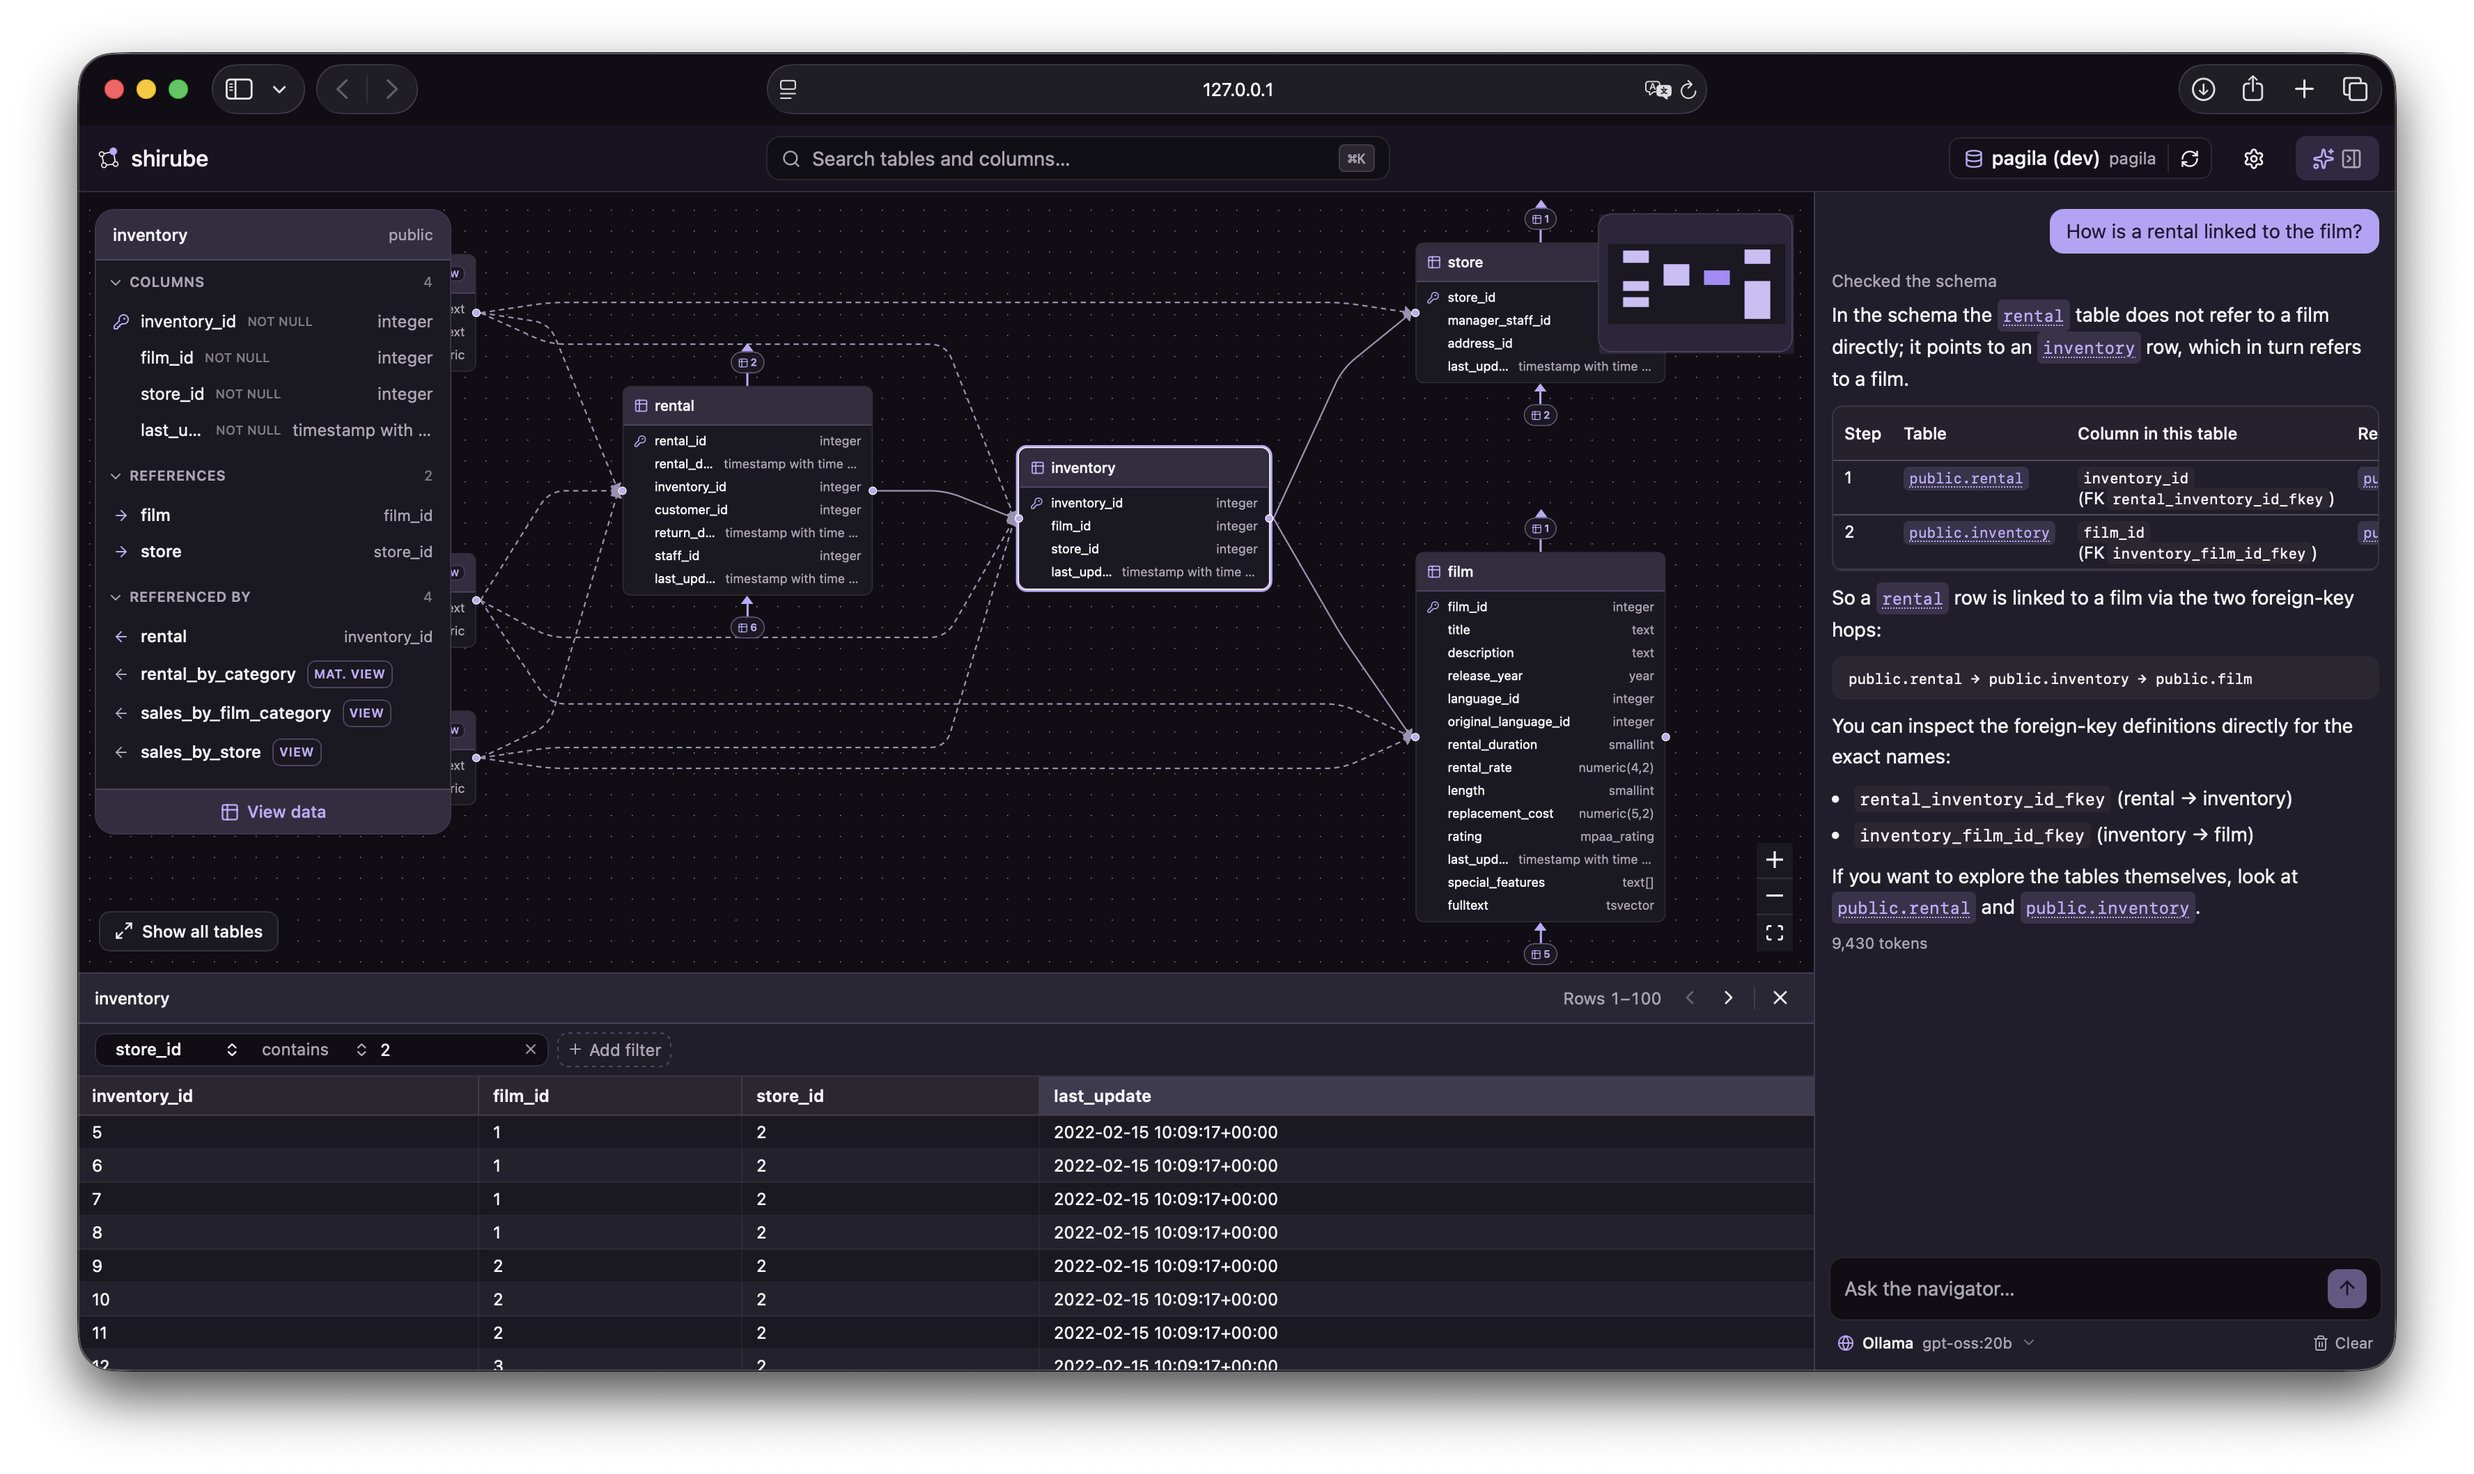
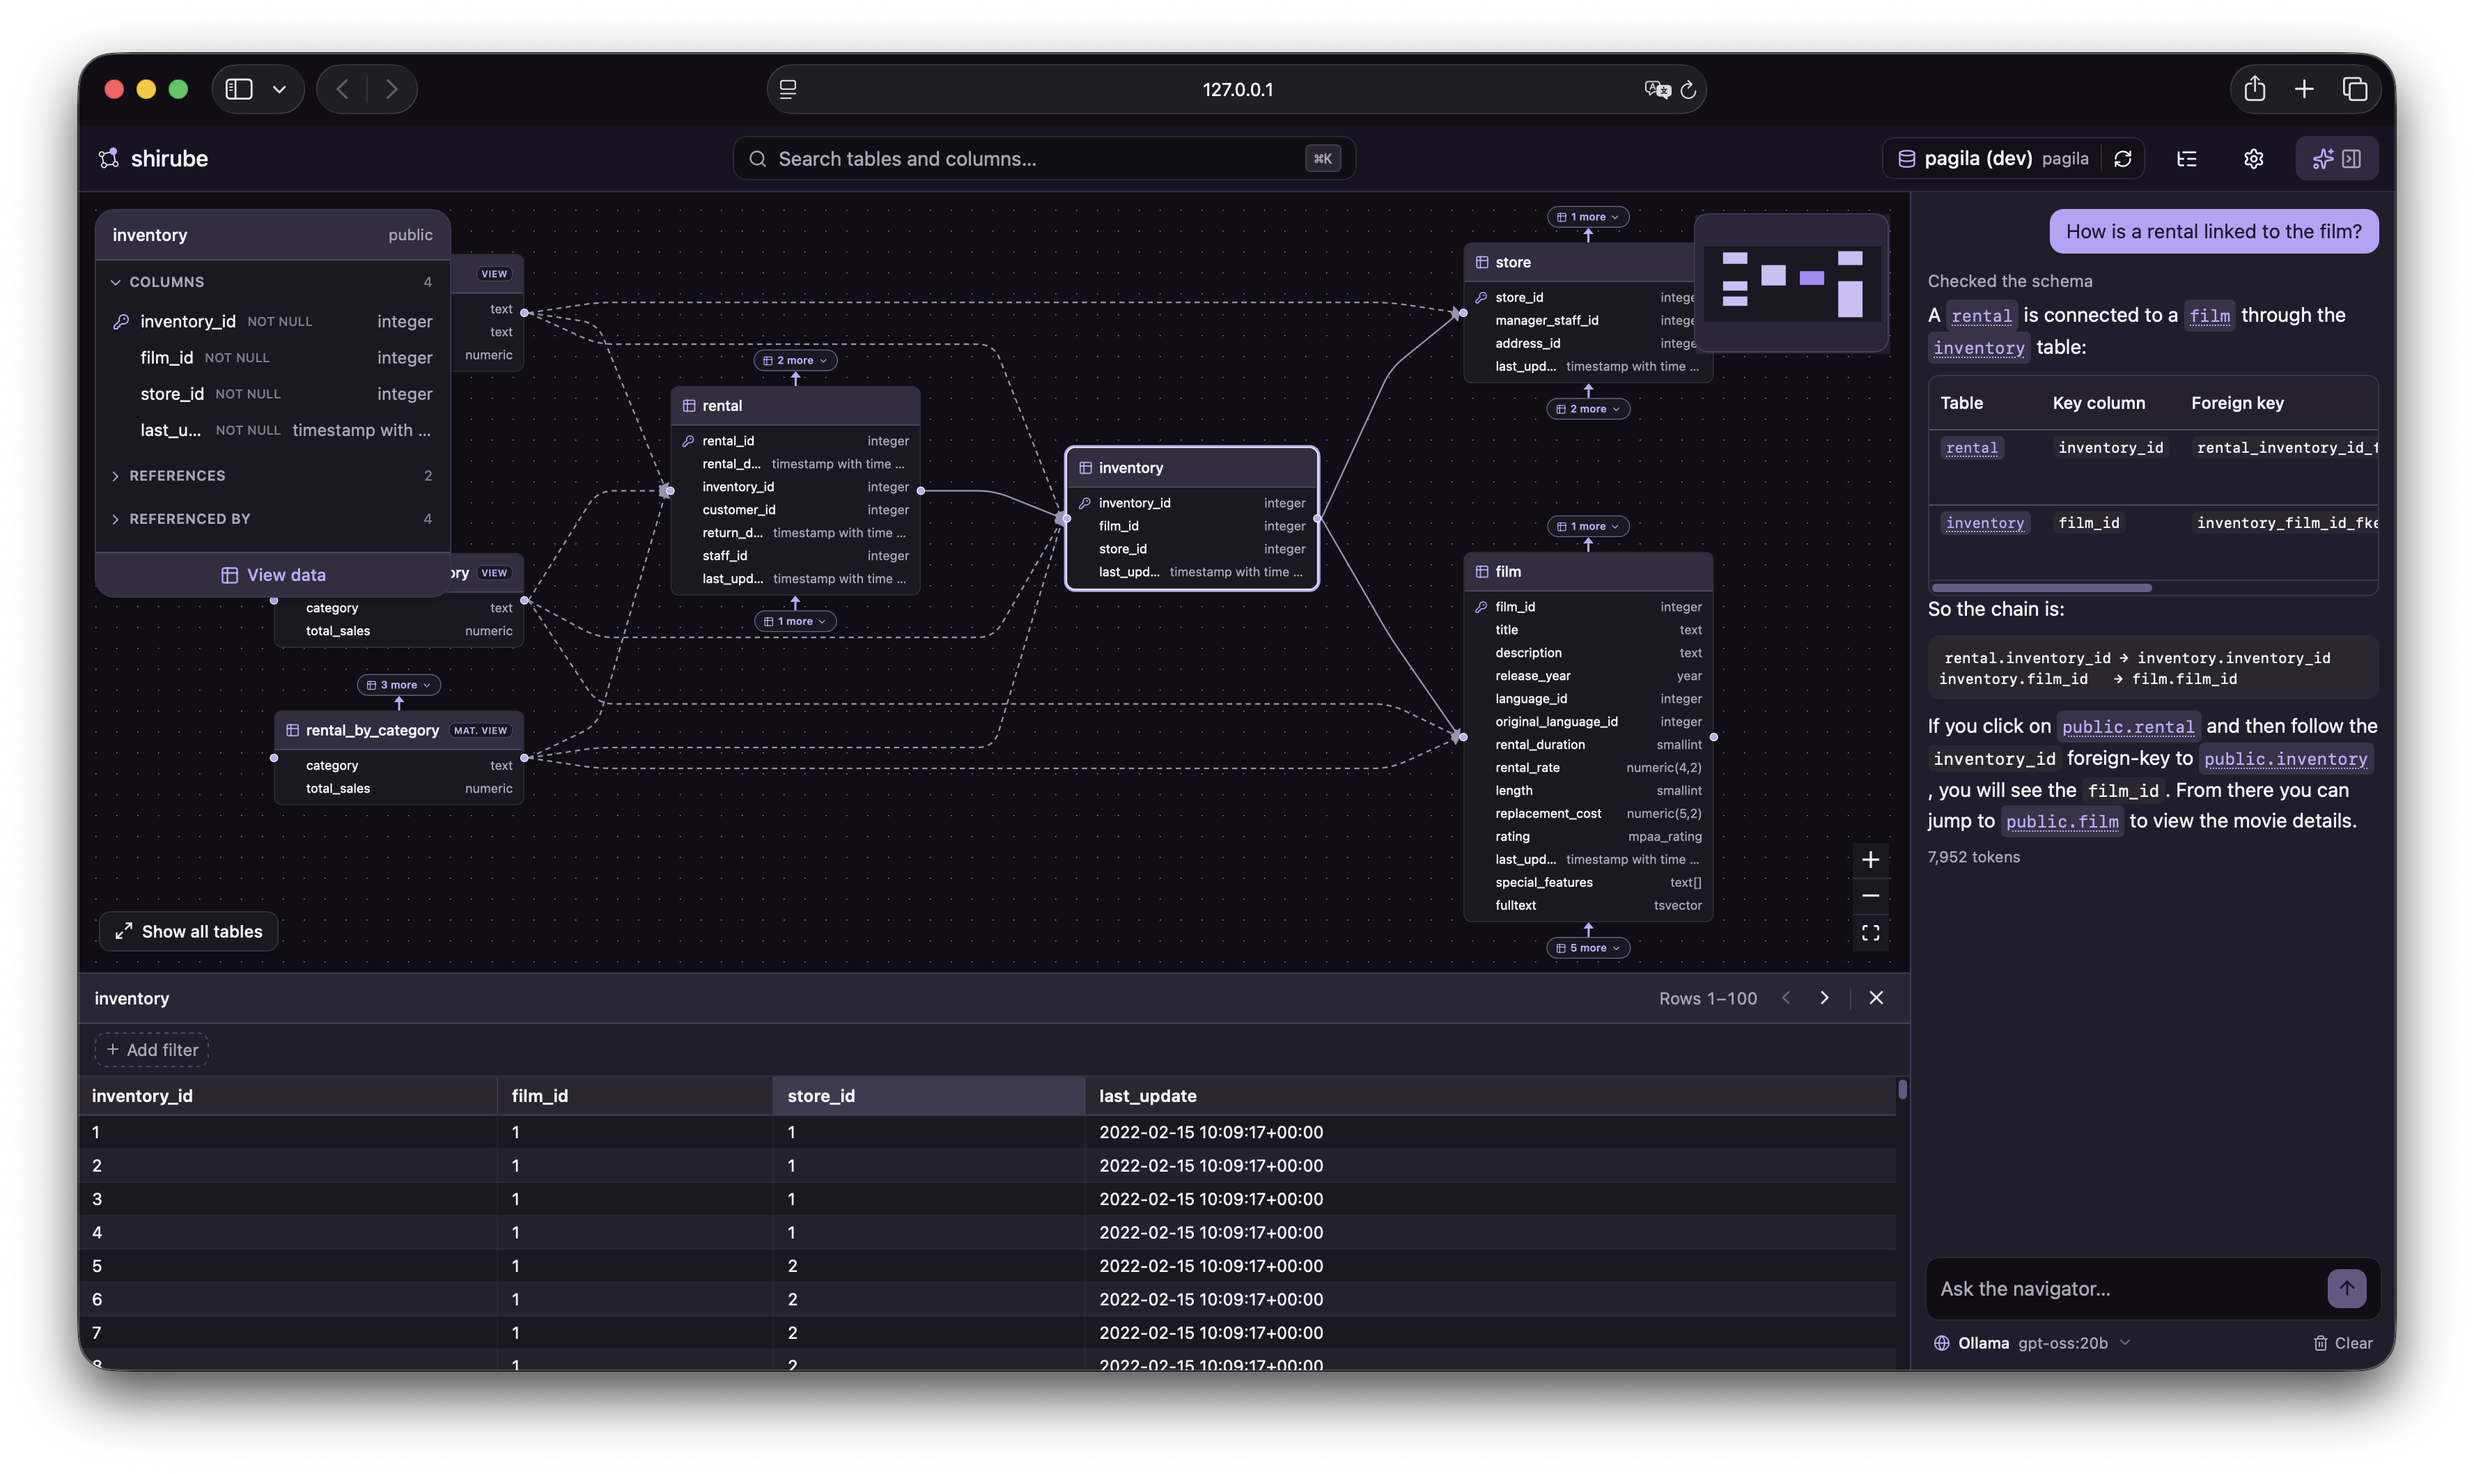
docs: refresh the home screenshot and group the README badges
Replace the home screenshot with the current UI, and lay the badges out in
labelled rows — build/tests (CI, coverage), package/runtime (PyPI, Python
versions), then project (licence, PostgreSQL) — with a line break between
each group so the row reads by intent instead of wrapping at an arbitrary
point. Drop the Ruff badge: it only declared the linter rather than carrying
a live signal, and a green CI already covers that.

diff --git a/api/README.md b/api/README.md
@@ -11,10 +11,9 @@
 
 <p align="center">
   <a href="https://github.com/shou-taro/shirube/actions/workflows/ci.yml"><img src="https://img.shields.io/github/actions/workflow/status/shou-taro/shirube/ci.yml?branch=main&label=CI&logo=githubactions&logoColor=white" alt="CI" /></a>
-  <a href="https://codecov.io/gh/shou-taro/shirube"><img src="https://img.shields.io/codecov/c/github/shou-taro/shirube?label=coverage&logo=codecov&logoColor=white" alt="Coverage" /></a>
+  <a href="https://codecov.io/gh/shou-taro/shirube"><img src="https://img.shields.io/codecov/c/github/shou-taro/shirube?label=coverage&logo=codecov&logoColor=white" alt="Coverage" /></a><br />
   <a href="https://pypi.org/project/shirube/"><img src="https://img.shields.io/pypi/v/shirube?logo=pypi&logoColor=white" alt="PyPI" /></a>
-  <a href="https://pypi.org/project/shirube/"><img src="https://img.shields.io/pypi/pyversions/shirube?logo=python&logoColor=white" alt="Python versions" /></a>
-  <a href="https://github.com/astral-sh/ruff"><img src="https://img.shields.io/endpoint?url=https://raw.githubusercontent.com/astral-sh/ruff/main/assets/badge/v2.json" alt="Ruff" /></a>
+  <a href="https://pypi.org/project/shirube/"><img src="https://img.shields.io/pypi/pyversions/shirube?logo=python&logoColor=white" alt="Python versions" /></a><br />
   <a href="https://github.com/shou-taro/shirube/blob/main/LICENSE"><img src="https://img.shields.io/badge/licence-AGPL--3.0-blue?logo=gnu&logoColor=white" alt="Licence: AGPL-3.0" /></a>
   <img src="https://img.shields.io/badge/PostgreSQL-ready-336791?logo=postgresql&logoColor=white" alt="PostgreSQL" />
 </p>

diff --git a/README.ja.md b/README.ja.md
@@ -11,10 +11,9 @@
 
 <p align="center">
   <a href="https://github.com/shou-taro/shirube/actions/workflows/ci.yml"><img src="https://img.shields.io/github/actions/workflow/status/shou-taro/shirube/ci.yml?branch=main&label=CI&logo=githubactions&logoColor=white" alt="CI" /></a>
-  <a href="https://codecov.io/gh/shou-taro/shirube"><img src="https://img.shields.io/codecov/c/github/shou-taro/shirube?label=coverage&logo=codecov&logoColor=white" alt="Coverage" /></a>
+  <a href="https://codecov.io/gh/shou-taro/shirube"><img src="https://img.shields.io/codecov/c/github/shou-taro/shirube?label=coverage&logo=codecov&logoColor=white" alt="Coverage" /></a><br />
   <a href="https://pypi.org/project/shirube/"><img src="https://img.shields.io/pypi/v/shirube?logo=pypi&logoColor=white" alt="PyPI" /></a>
-  <a href="https://pypi.org/project/shirube/"><img src="https://img.shields.io/pypi/pyversions/shirube?logo=python&logoColor=white" alt="Python versions" /></a>
-  <a href="https://github.com/astral-sh/ruff"><img src="https://img.shields.io/endpoint?url=https://raw.githubusercontent.com/astral-sh/ruff/main/assets/badge/v2.json" alt="Ruff" /></a>
+  <a href="https://pypi.org/project/shirube/"><img src="https://img.shields.io/pypi/pyversions/shirube?logo=python&logoColor=white" alt="Python versions" /></a><br />
   <a href="LICENSE"><img src="https://img.shields.io/badge/licence-AGPL--3.0-blue?logo=gnu&logoColor=white" alt="Licence: AGPL-3.0" /></a>
   <img src="https://img.shields.io/badge/PostgreSQL-ready-336791?logo=postgresql&logoColor=white" alt="PostgreSQL" />
 </p>

diff --git a/README.md b/README.md
@@ -11,10 +11,9 @@
 
 <p align="center">
   <a href="https://github.com/shou-taro/shirube/actions/workflows/ci.yml"><img src="https://img.shields.io/github/actions/workflow/status/shou-taro/shirube/ci.yml?branch=main&label=CI&logo=githubactions&logoColor=white" alt="CI" /></a>
-  <a href="https://codecov.io/gh/shou-taro/shirube"><img src="https://img.shields.io/codecov/c/github/shou-taro/shirube?label=coverage&logo=codecov&logoColor=white" alt="Coverage" /></a>
+  <a href="https://codecov.io/gh/shou-taro/shirube"><img src="https://img.shields.io/codecov/c/github/shou-taro/shirube?label=coverage&logo=codecov&logoColor=white" alt="Coverage" /></a><br />
   <a href="https://pypi.org/project/shirube/"><img src="https://img.shields.io/pypi/v/shirube?logo=pypi&logoColor=white" alt="PyPI" /></a>
-  <a href="https://pypi.org/project/shirube/"><img src="https://img.shields.io/pypi/pyversions/shirube?logo=python&logoColor=white" alt="Python versions" /></a>
-  <a href="https://github.com/astral-sh/ruff"><img src="https://img.shields.io/endpoint?url=https://raw.githubusercontent.com/astral-sh/ruff/main/assets/badge/v2.json" alt="Ruff" /></a>
+  <a href="https://pypi.org/project/shirube/"><img src="https://img.shields.io/pypi/pyversions/shirube?logo=python&logoColor=white" alt="Python versions" /></a><br />
   <a href="LICENSE"><img src="https://img.shields.io/badge/licence-AGPL--3.0-blue?logo=gnu&logoColor=white" alt="Licence: AGPL-3.0" /></a>
   <img src="https://img.shields.io/badge/PostgreSQL-ready-336791?logo=postgresql&logoColor=white" alt="PostgreSQL" />
 </p>
